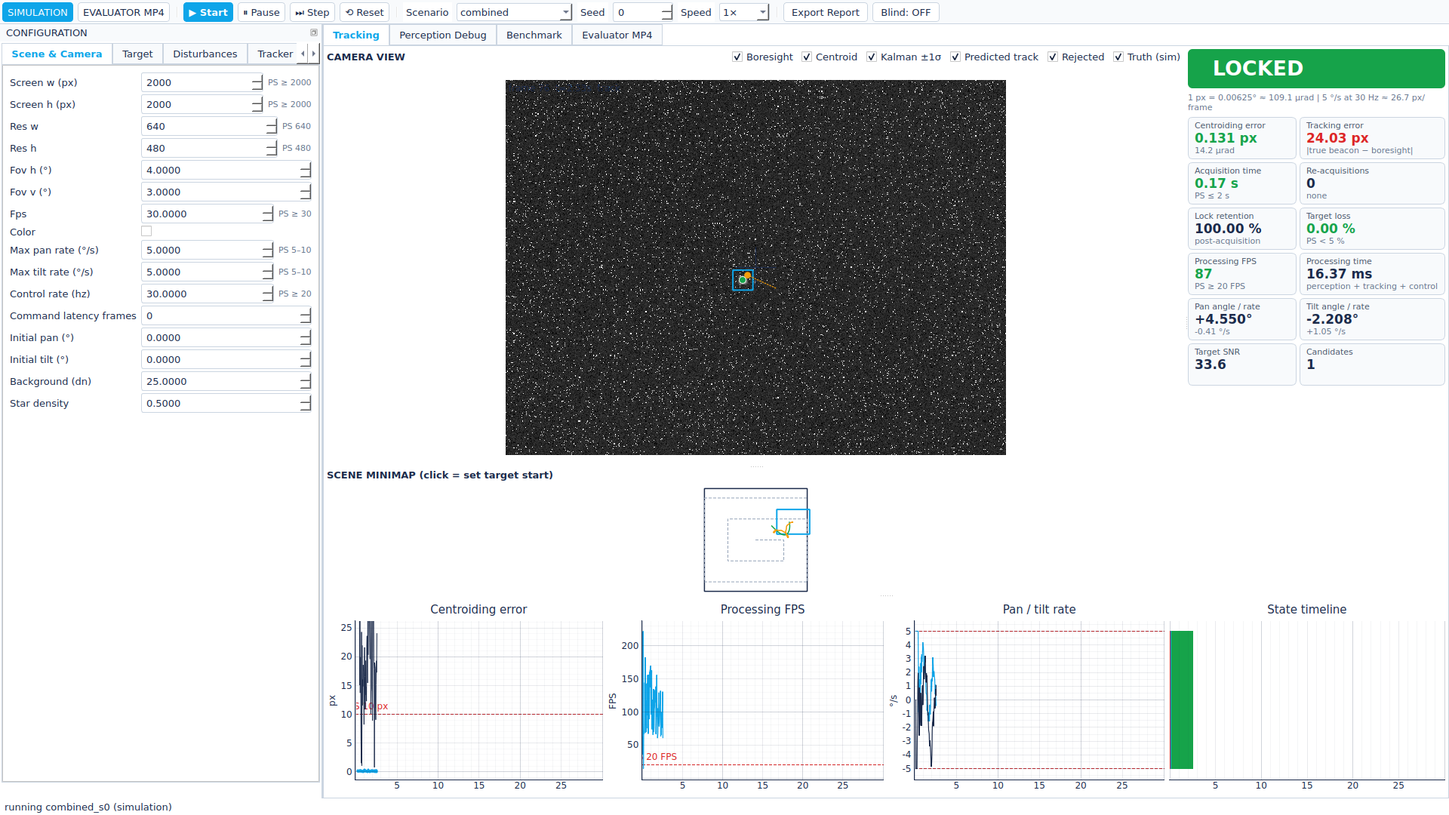
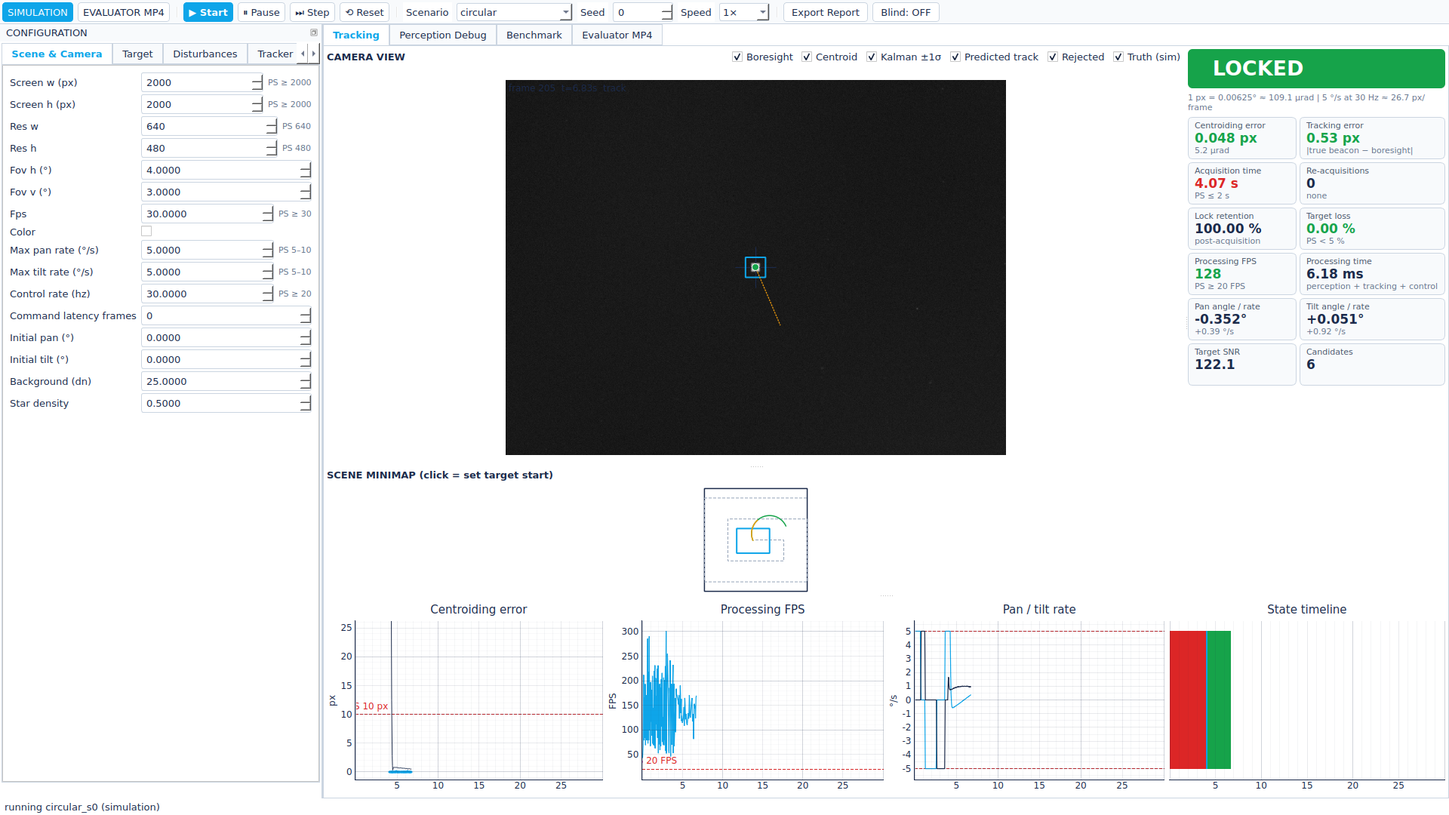
M7/M8: final benchmark + ablation results inserted into docs, hybrid ablation fix, frozen-build screenshot
Claude-Session: https://claude.ai/code/session_01UMox4FseGRwcpwFczZUsf7

diff --git a/anantham/pipeline/pat.py b/anantham/pipeline/pat.py
@@ -138,7 +138,10 @@ class PatSystem:
             cands, dbg, res_sigma = res.candidates, res.debug, res.noise_sigma
             # VALIDATE: CNN verifier on plausible candidates
             if pc.mode == "hybrid" and cands:
-                check = [c for c in cands if c.size_match >= 0.3]
+                # with the identity gate on, a loose size prefilter saves CNN time; without
+                # it (ablation) every candidate must pass the verifier
+                check = cands if not self.cfg.tracker.identity_gate else \
+                    [c for c in cands if c.size_match >= 0.3]
                 ver = self.cnn.verify(gray, [(c.x, c.y) for c in check], self.s)
                 for c, (p, hx, hy) in zip(check, ver):
                     c.cnn_prob = p

diff --git a/docs/TECHNICAL_REPORT.md b/docs/TECHNICAL_REPORT.md
@@ -128,7 +128,16 @@ elongated blobs). Exported to ONNX, run with ONNX Runtime on one CPU thread. Swi
 Measured on the held-out 10 % (from `anantham/models/verifier_card.json`):
 
 <!-- RESULTS:cnn -->
-_not yet measured_
+| item | value |
+|---|---|
+| training samples (simulated ROIs) | 60000 (10 % held out) |
+| epochs / seed | 12 / 0 |
+| parameters | 28948 |
+| validation accuracy | 96.53 % |
+| precision / recall | 97.87 % / 97.23 % |
+| false-positive rate | 5.18 % |
+| heatmap localisation error median / P95 | 0.348 / 26.368 px |
+| training time (CPU) | 32.1 min |
 <!-- /RESULTS:cnn -->
 
 In *hybrid* mode (default) every candidate with size-match ≥ 0.3 is verified; candidates
@@ -216,44 +225,215 @@ SEARCH resumes.
 ## 10. Results
 
 <!-- RESULTS:meta -->
-_not yet measured_
+Source: `results/final` — 680 runs, 5 seeds × 20 s, acquisition modes spiral, wide_fov, start modes random, in_fov, perception: config default; ablation 714 runs.
 <!-- /RESULTS:meta -->
 
 ### 10.1 PS requirements — runs passing each row
 
 <!-- RESULTS:bench_headline -->
-_not yet measured_
+| PS requirement | spiral / in_fov | spiral / random | wide_fov / in_fov | wide_fov / random |
+|---|---|---|---|---|
+| Acquisition ≤ 2 s | 160/165 | 41/165 | 165/165 | 162/165 |
+| Centroiding RMSE ≤ 10 px | 165/165 | 165/165 | 165/165 | 165/165 |
+| Tracking RMSE (all locked) ≤ 10 px | 131/165 | 35/165 | 128/165 | 36/165 |
+| Tracking RMSE (steady) ≤ 10 px | 150/165 | 149/164 | 150/165 | 150/165 |
+| Target loss < 5 % | 160/165 | 160/165 | 160/165 | 160/165 |
+| Re-acquisition ≤ 1 s | 10/15 | 6/11 | 10/15 | 7/12 |
+| Processing ≥ 20 FPS | 170/170 | 170/170 | 170/170 | 170/170 |
+| No false lock (target absent) | 5/5 | 5/5 | 5/5 | 5/5 |
+| All rows pass | 131/170 | 29/170 | 131/170 | 37/170 |
 <!-- /RESULTS:bench_headline -->
 
 ### 10.2 Single camera, spiral search, target starts inside the FOV
 
 <!-- RESULTS:bench_spiral_in_fov -->
-_not yet measured_
+| scenario | acquired | acq. time s mean / worst | centroid RMSE px (worst) | track RMSE all px mean / worst | track RMSE steady px mean / worst | target loss mean / worst | re-acq max s | re-acq after visible max s | unrec. | false-lock fr. | proc FPS min | all-PS pass |
+|---|---|---|---|---|---|---|---|---|---|---|---|---|
+| stationary | 5/5 | 0.07 / 0.07 | 0.020 | 4.48 / 6.97 | 0.37 / 0.41 | 0.00 % / 0.00 % | — | — | 0 | 0 | 93 | 100 % |
+| straight_slow | 5/5 | 0.07 / 0.07 | 0.020 | 4.52 / 6.72 | 0.44 / 0.46 | 0.00 % / 0.00 % | — | — | 0 | 0 | 90 | 100 % |
+| straight_fast | 5/5 | 0.07 / 0.07 | 0.020 | 8.21 / 13.56 | 5.81 / 6.71 | 0.00 % / 0.00 % | — | — | 0 | 0 | 97 | 80 % |
+| circular | 5/5 | 0.07 / 0.07 | 0.021 | 4.47 / 7.48 | 0.38 / 0.41 | 0.00 % / 0.00 % | — | — | 0 | 0 | 96 | 100 % |
+| figure8 | 5/5 | 0.07 / 0.07 | 0.020 | 5.43 / 8.45 | 0.80 / 0.82 | 0.00 % / 0.00 % | — | — | 0 | 0 | 96 | 100 % |
+| random | 5/5 | 0.07 / 0.07 | 0.020 | 4.82 / 7.93 | 1.49 / 1.78 | 0.00 % / 0.00 % | — | — | 0 | 0 | 98 | 100 % |
+| spiral | 5/5 | 0.07 / 0.07 | 0.020 | 4.83 / 7.60 | 0.42 / 0.44 | 0.00 % / 0.00 % | — | — | 0 | 0 | 96 | 100 % |
+| sinusoidal | 5/5 | 0.07 / 0.07 | 0.020 | 6.96 / 13.91 | 2.03 / 2.15 | 0.00 % / 0.00 % | — | — | 0 | 0 | 106 | 80 % |
+| gauss20 | 5/5 | 0.07 / 0.07 | 0.101 | 4.48 / 7.48 | 0.38 / 0.41 | 0.00 % / 0.00 % | — | — | 0 | 0 | 107 | 100 % |
+| poisson | 5/5 | 0.07 / 0.07 | 0.048 | 4.47 / 7.48 | 0.37 / 0.40 | 0.00 % / 0.00 % | — | — | 0 | 0 | 97 | 100 % |
+| salt_pepper | 5/5 | 0.07 / 0.07 | 0.096 | 4.47 / 7.48 | 0.37 / 0.40 | 0.00 % / 0.00 % | — | — | 0 | 0 | 91 | 100 % |
+| mixed_noise | 5/5 | 0.07 / 0.07 | 0.088 | 4.47 / 7.48 | 0.35 / 0.39 | 0.00 % / 0.00 % | — | — | 0 | 0 | 100 | 100 % |
+| haze | 5/5 | 0.07 / 0.07 | 0.028 | 4.47 / 7.48 | 0.37 / 0.40 | 0.00 % / 0.00 % | — | — | 0 | 0 | 100 | 100 % |
+| fog | 5/5 | 0.07 / 0.07 | 0.060 | 4.47 / 7.48 | 0.36 / 0.40 | 0.00 % / 0.00 % | — | — | 0 | 0 | 98 | 100 % |
+| rain | 5/5 | 0.07 / 0.07 | 0.049 | 4.47 / 7.48 | 0.38 / 0.41 | 0.00 % / 0.00 % | — | — | 0 | 0 | 93 | 100 % |
+| low_light | 5/5 | 0.07 / 0.07 | 0.056 | 4.47 / 7.48 | 0.35 / 0.39 | 0.00 % / 0.00 % | — | — | 0 | 0 | 108 | 100 % |
+| turb_weak | 5/5 | 0.07 / 0.07 | 0.021 | 4.63 / 7.52 | 0.94 / 1.00 | 0.00 % / 0.00 % | — | — | 0 | 0 | 107 | 100 % |
+| turb_moderate | 5/5 | 0.07 / 0.07 | 0.025 | 5.38 / 7.89 | 2.58 / 2.73 | 0.00 % / 0.00 % | — | — | 0 | 0 | 95 | 100 % |
+| turb_strong | 5/5 | 0.07 / 0.07 | 0.038 | 6.97 / 8.99 | 4.99 / 5.31 | 0.00 % / 0.00 % | — | — | 0 | 0 | 102 | 100 % |
+| jitter10 | 5/5 | 0.07 / 0.07 | 0.019 | 11.12 / 12.42 | 9.69 / 9.99 | 0.03 % / 0.17 % | 0.03 | 0.03 | 0 | 0 | 91 | 20 % |
+| jitter20 | 5/5 | 0.08 / 0.13 | 0.020 | 19.80 / 20.75 | 18.57 / 19.16 | 0.10 % / 0.17 % | 0.03 | 0.03 | 0 | 0 | 92 | 0 % |
+| platform_linear20 | 5/5 | 0.07 / 0.07 | 0.020 | 29.03 / 30.58 | 27.77 / 27.82 | 0.00 % / 0.00 % | — | — | 0 | 0 | 97 | 0 % |
+| platform_circular10 | 5/5 | 0.07 / 0.07 | 0.019 | 9.25 / 13.89 | 2.72 / 2.73 | 0.00 % / 0.00 % | — | — | 0 | 0 | 99 | 40 % |
+| distractor | 5/5 | 0.07 / 0.07 | 0.021 | 4.47 / 7.48 | 0.38 / 0.41 | 0.00 % / 0.00 % | — | — | 0 | 0 | 108 | 100 % |
+| target5 | 5/5 | 0.07 / 0.07 | 0.028 | 4.47 / 7.48 | 0.36 / 0.39 | 0.00 % / 0.00 % | — | — | 0 | 0 | 95 | 100 % |
+| target20 | 5/5 | 0.07 / 0.07 | 0.018 | 4.47 / 7.48 | 0.37 / 0.41 | 0.00 % / 0.00 % | — | — | 0 | 0 | 102 | 100 % |
+| blink | 5/5 | 0.47 / 0.47 | 0.028 | 0.40 / 0.44 | 0.35 / 0.38 | 0.00 % / 0.00 % | — | — | 0 | 0 | 94 | 100 % |
+| fast_noise | 5/5 | 0.07 / 0.07 | 0.102 | 8.22 / 13.56 | 5.81 / 6.71 | 0.00 % / 0.00 % | — | — | 0 | 0 | 104 | 80 % |
+| lowlight_jitter | 5/5 | 0.07 / 0.07 | 0.054 | 11.12 / 12.41 | 9.69 / 9.99 | 0.03 % / 0.17 % | 0.03 | 0.03 | 0 | 0 | 104 | 20 % |
+| combined | 5/5 | 0.07 / 0.07 | 0.183 | 23.42 / 25.09 | 21.46 / 21.89 | 0.00 % / 0.00 % | — | — | 0 | 0 | 96 | 0 % |
+| target_absent | 0/5 | — / — | — | — / — | — / — | — / — | — | — | 0 | 0 | 150 | 100 % |
+| occlusion | 5/5 | 0.07 / 0.07 | 0.020 | 4.72 / 7.91 | 0.44 / 0.47 | 2.84 % / 2.84 % | 0.57 | 0.07 | 0 | 0 | 95 | 100 % |
+| edge_exit | 5/5 | 0.07 / 0.07 | 0.020 | 6.86 / 6.86 | 1.02 / 1.02 | 13.38 % / 13.38 % | 2.67 | 0.07 | 0 | 0 | 99 | 0 % |
+| waypoints | 5/5 | 4.43 / 4.43 | 0.021 | 25.05 / 25.05 | 1.20 / 1.20 | 0.00 % / 0.00 % | — | — | 0 | 0 | 116 | 0 % |
 <!-- /RESULTS:bench_spiral_in_fov -->
 
 ### 10.3 Single camera, spiral search, random start anywhere on the screen
 
 <!-- RESULTS:bench_spiral_random -->
-_not yet measured_
+| scenario | acquired | acq. time s mean / worst | centroid RMSE px (worst) | track RMSE all px mean / worst | track RMSE steady px mean / worst | target loss mean / worst | re-acq max s | re-acq after visible max s | unrec. | false-lock fr. | proc FPS min | all-PS pass |
+|---|---|---|---|---|---|---|---|---|---|---|---|---|
+| stationary | 5/5 | 3.71 / 4.73 | 0.021 | 19.08 / 22.69 | 0.37 / 0.40 | 0.00 % / 0.00 % | — | — | 0 | 0 | 99 | 20 % |
+| straight_slow | 5/5 | 6.35 / 18.17 | 0.020 | 21.07 / 31.03 | 0.50 / 0.61 | 0.00 % / 0.00 % | — | — | 0 | 0 | 103 | 20 % |
+| straight_fast | 5/5 | 5.37 / 17.60 | 0.020 | 19.92 / 53.41 | 6.38 / 9.69 | 0.00 % / 0.00 % | — | — | 0 | 0 | 99 | 0 % |
+| circular | 5/5 | 5.26 / 14.43 | 0.020 | 18.95 / 30.57 | 0.41 / 0.49 | 0.00 % / 0.00 % | — | — | 0 | 0 | 95 | 20 % |
+| figure8 | 5/5 | 2.73 / 4.43 | 0.020 | 14.05 / 18.59 | 0.82 / 0.82 | 0.00 % / 0.00 % | — | — | 0 | 0 | 101 | 20 % |
+| random | 5/5 | 8.75 / 19.20 | 0.021 | 34.46 / 86.37 | 1.54 / 1.88 | 0.00 % / 0.00 % | — | — | 0 | 0 | 96 | 20 % |
+| spiral | 5/5 | 2.75 / 4.60 | 0.020 | 18.59 / 24.38 | 0.43 / 0.46 | 0.00 % / 0.00 % | — | — | 0 | 0 | 96 | 20 % |
+| sinusoidal | 5/5 | 1.81 / 4.50 | 0.020 | 14.33 / 21.21 | 1.83 / 2.07 | 0.00 % / 0.00 % | — | — | 0 | 0 | 99 | 20 % |
+| gauss20 | 5/5 | 5.26 / 14.43 | 0.100 | 18.95 / 30.57 | 0.42 / 0.54 | 0.00 % / 0.00 % | — | — | 0 | 0 | 107 | 20 % |
+| poisson | 5/5 | 5.26 / 14.43 | 0.049 | 18.95 / 30.57 | 0.40 / 0.51 | 0.00 % / 0.00 % | — | — | 0 | 0 | 101 | 20 % |
+| salt_pepper | 5/5 | 5.26 / 14.43 | 0.098 | 18.95 / 30.57 | 0.42 / 0.55 | 0.00 % / 0.00 % | — | — | 0 | 0 | 92 | 20 % |
+| mixed_noise | 5/5 | 5.26 / 14.43 | 0.088 | 18.95 / 30.57 | 0.40 / 0.53 | 0.00 % / 0.00 % | — | — | 0 | 0 | 110 | 20 % |
+| haze | 5/5 | 5.26 / 14.43 | 0.027 | 18.95 / 30.57 | 0.40 / 0.49 | 0.00 % / 0.00 % | — | — | 0 | 0 | 107 | 20 % |
+| fog | 5/5 | 5.26 / 14.43 | 0.059 | 18.95 / 30.57 | 0.40 / 0.51 | 0.00 % / 0.00 % | — | — | 0 | 0 | 117 | 20 % |
+| rain | 5/5 | 5.26 / 14.43 | 0.052 | 18.95 / 30.57 | 0.41 / 0.50 | 0.00 % / 0.00 % | — | — | 0 | 0 | 90 | 20 % |
+| low_light | 5/5 | 5.26 / 14.43 | 0.055 | 18.95 / 30.57 | 0.39 / 0.49 | 0.00 % / 0.00 % | — | — | 0 | 0 | 111 | 20 % |
+| turb_weak | 5/5 | 5.26 / 14.43 | 0.021 | 18.97 / 30.58 | 0.95 / 1.01 | 0.00 % / 0.00 % | — | — | 0 | 0 | 107 | 20 % |
+| turb_moderate | 5/5 | 5.26 / 14.43 | 0.025 | 19.15 / 30.66 | 2.57 / 2.74 | 0.00 % / 0.00 % | — | — | 0 | 0 | 94 | 20 % |
+| turb_strong | 5/5 | 5.26 / 14.43 | 0.037 | 19.70 / 30.91 | 4.97 / 5.32 | 0.00 % / 0.00 % | — | — | 0 | 0 | 104 | 20 % |
+| jitter10 | 5/5 | 5.26 / 14.43 | 0.020 | 21.87 / 32.75 | 9.67 / 9.83 | 0.00 % / 0.00 % | — | — | 0 | 0 | 105 | 0 % |
+| jitter20 | 5/5 | 5.27 / 14.43 | 0.020 | 26.32 / 38.04 | 18.48 / 18.75 | 0.08 % / 0.21 % | 0.03 | 0.03 | 0 | 0 | 88 | 0 % |
+| platform_linear20 | 5/5 | 5.00 / 13.33 | 0.019 | 35.58 / 43.23 | 27.63 / 27.71 | 0.00 % / 0.00 % | — | — | 0 | 0 | 107 | 0 % |
+| platform_circular10 | 5/5 | 5.03 / 13.33 | 0.020 | 20.42 / 48.13 | 2.73 / 2.73 | 0.00 % / 0.00 % | — | — | 0 | 0 | 113 | 20 % |
+| distractor | 5/5 | 5.26 / 14.43 | 0.020 | 18.95 / 30.57 | 0.41 / 0.49 | 0.00 % / 0.00 % | — | — | 0 | 0 | 103 | 20 % |
+| target5 | 5/5 | 5.26 / 14.43 | 0.029 | 18.95 / 30.57 | 0.39 / 0.48 | 0.00 % / 0.00 % | — | — | 0 | 0 | 103 | 20 % |
+| target20 | 5/5 | 5.26 / 14.43 | 0.018 | 18.95 / 30.57 | 0.40 / 0.49 | 0.00 % / 0.00 % | — | — | 0 | 0 | 102 | 20 % |
+| blink | 5/5 | 6.39 / 16.60 | 0.029 | 0.44 / 0.66 | 0.40 / 0.55 | 0.00 % / 0.00 % | — | — | 0 | 0 | 88 | 20 % |
+| fast_noise | 5/5 | 5.37 / 17.60 | 0.102 | 19.92 / 53.41 | 6.37 / 9.70 | 0.00 % / 0.00 % | — | — | 0 | 0 | 105 | 0 % |
+| lowlight_jitter | 5/5 | 5.26 / 14.43 | 0.054 | 21.87 / 32.75 | 9.67 / 9.83 | 0.00 % / 0.00 % | — | — | 0 | 0 | 118 | 0 % |
+| combined | 5/5 | 2.66 / 4.37 | 0.179 | 26.65 / 29.42 | 21.44 / 21.87 | 0.00 % / 0.00 % | — | — | 0 | 0 | 98 | 0 % |
+| target_absent | 0/5 | — / — | — | — / — | — / — | — / — | — | — | 0 | 0 | 133 | 100 % |
+| occlusion | 5/5 | 5.26 / 14.43 | 0.020 | 19.19 / 30.57 | 0.45 / 0.49 | 2.68 % / 3.56 % | 0.57 | 0.07 | 0 | 0 | 110 | 20 % |
+| edge_exit | 5/5 | 0.07 / 0.07 | 0.020 | 6.86 / 6.86 | 1.02 / 1.02 | 13.38 % / 13.38 % | 2.67 | 0.07 | 0 | 0 | 114 | 0 % |
+| waypoints | 5/5 | 4.43 / 4.43 | 0.021 | 25.05 / 25.05 | 1.20 / 1.20 | 0.00 % / 0.00 % | — | — | 0 | 0 | 119 | 0 % |
 <!-- /RESULTS:bench_spiral_random -->
 
 ### 10.4 OPTIONAL wide-FOV acquisition sensor, random start
 
 <!-- RESULTS:bench_wide_random -->
-_not yet measured_
+| scenario | acquired | acq. time s mean / worst | centroid RMSE px (worst) | track RMSE all px mean / worst | track RMSE steady px mean / worst | target loss mean / worst | re-acq max s | re-acq after visible max s | unrec. | false-lock fr. | proc FPS min | all-PS pass |
+|---|---|---|---|---|---|---|---|---|---|---|---|---|
+| stationary | 5/5 | 0.36 / 0.50 | 0.021 | 14.35 / 19.73 | 0.35 / 0.39 | 0.00 % / 0.00 % | — | — | 0 | 0 | 83 | 20 % |
+| straight_slow | 5/5 | 0.37 / 0.47 | 0.021 | 14.53 / 20.59 | 0.47 / 0.62 | 0.00 % / 0.00 % | — | — | 0 | 0 | 95 | 20 % |
+| straight_fast | 5/5 | 0.42 / 0.77 | 0.020 | 13.74 / 24.32 | 5.60 / 6.93 | 0.00 % / 0.00 % | — | — | 0 | 0 | 92 | 20 % |
+| circular | 5/5 | 0.35 / 0.47 | 0.021 | 14.88 / 20.54 | 0.39 / 0.44 | 0.00 % / 0.00 % | — | — | 0 | 0 | 100 | 20 % |
+| figure8 | 5/5 | 0.25 / 0.40 | 0.020 | 11.57 / 18.16 | 0.83 / 0.84 | 0.00 % / 0.00 % | — | — | 0 | 0 | 94 | 40 % |
+| random | 5/5 | 0.35 / 0.50 | 0.020 | 14.30 / 19.92 | 1.50 / 1.88 | 0.00 % / 0.00 % | — | — | 0 | 0 | 92 | 40 % |
+| spiral | 5/5 | 0.23 / 0.37 | 0.021 | 13.59 / 20.23 | 0.45 / 0.50 | 0.00 % / 0.00 % | — | — | 0 | 0 | 113 | 40 % |
+| sinusoidal | 5/5 | 0.37 / 0.60 | 0.020 | 14.24 / 25.87 | 1.75 / 2.02 | 0.00 % / 0.00 % | — | — | 0 | 0 | 120 | 40 % |
+| gauss20 | 5/5 | 0.35 / 0.47 | 0.099 | 14.88 / 20.54 | 0.39 / 0.45 | 0.00 % / 0.00 % | — | — | 0 | 0 | 118 | 20 % |
+| poisson | 5/5 | 0.35 / 0.47 | 0.049 | 14.88 / 20.54 | 0.38 / 0.43 | 0.00 % / 0.00 % | — | — | 0 | 0 | 110 | 20 % |
+| salt_pepper | 5/5 | 0.35 / 0.47 | 0.096 | 14.88 / 20.54 | 0.38 / 0.43 | 0.00 % / 0.00 % | — | — | 0 | 0 | 103 | 20 % |
+| mixed_noise | 5/5 | 0.35 / 0.47 | 0.088 | 14.87 / 20.54 | 0.37 / 0.43 | 0.00 % / 0.00 % | — | — | 0 | 0 | 105 | 20 % |
+| haze | 5/5 | 0.35 / 0.47 | 0.028 | 14.88 / 20.54 | 0.38 / 0.43 | 0.00 % / 0.00 % | — | — | 0 | 0 | 104 | 20 % |
+| fog | 5/5 | 0.35 / 0.47 | 0.061 | 14.88 / 20.54 | 0.38 / 0.43 | 0.00 % / 0.00 % | — | — | 0 | 0 | 110 | 20 % |
+| rain | 5/5 | 0.36 / 0.50 | 0.049 | 14.49 / 18.59 | 0.39 / 0.42 | 0.00 % / 0.00 % | — | — | 0 | 0 | 91 | 20 % |
+| low_light | 5/5 | 0.35 / 0.47 | 0.056 | 14.87 / 20.54 | 0.37 / 0.42 | 0.00 % / 0.00 % | — | — | 0 | 0 | 103 | 20 % |
+| turb_weak | 5/5 | 0.35 / 0.47 | 0.021 | 14.90 / 20.55 | 0.94 / 0.99 | 0.00 % / 0.00 % | — | — | 0 | 0 | 116 | 20 % |
+| turb_moderate | 5/5 | 0.35 / 0.47 | 0.025 | 15.12 / 20.70 | 2.58 / 2.73 | 0.00 % / 0.00 % | — | — | 0 | 0 | 106 | 20 % |
+| turb_strong | 5/5 | 0.35 / 0.47 | 0.038 | 15.77 / 21.15 | 4.99 / 5.31 | 0.00 % / 0.00 % | — | — | 0 | 0 | 112 | 20 % |
+| jitter10 | 5/5 | 0.35 / 0.47 | 0.019 | 18.64 / 23.55 | 9.69 / 9.99 | 0.00 % / 0.00 % | — | — | 0 | 0 | 107 | 0 % |
+| jitter20 | 5/5 | 0.36 / 0.47 | 0.020 | 24.49 / 28.48 | 18.54 / 19.14 | 0.07 % / 0.17 % | 0.03 | 0.03 | 0 | 0 | 94 | 0 % |
+| platform_linear20 | 5/5 | 0.41 / 0.67 | 0.019 | 30.02 / 32.52 | 27.67 / 27.74 | 0.00 % / 0.00 % | — | — | 0 | 0 | 115 | 0 % |
+| platform_circular10 | 5/5 | 0.34 / 0.47 | 0.020 | 12.29 / 16.06 | 2.71 / 2.72 | 0.00 % / 0.00 % | — | — | 0 | 0 | 115 | 20 % |
+| distractor | 5/5 | 0.36 / 0.47 | 0.021 | 14.56 / 20.54 | 0.39 / 0.44 | 0.00 % / 0.00 % | — | — | 0 | 0 | 108 | 20 % |
+| target5 | 5/5 | 2.54 / 5.63 | 0.028 | 14.92 / 22.48 | 0.40 / 0.44 | 0.00 % / 0.00 % | — | — | 0 | 0 | 89 | 20 % |
+| target20 | 5/5 | 0.35 / 0.47 | 0.018 | 14.88 / 20.54 | 0.39 / 0.44 | 0.00 % / 0.00 % | — | — | 0 | 0 | 95 | 20 % |
+| blink | 5/5 | 1.10 / 2.17 | 0.028 | 1.24 / 4.59 | 0.36 / 0.38 | 0.00 % / 0.00 % | — | — | 0 | 0 | 96 | 80 % |
+| fast_noise | 5/5 | 0.41 / 0.73 | 0.101 | 14.23 / 24.33 | 5.58 / 6.84 | 0.00 % / 0.00 % | — | — | 0 | 0 | 97 | 0 % |
+| lowlight_jitter | 5/5 | 0.35 / 0.47 | 0.053 | 18.64 / 23.56 | 9.69 / 9.99 | 0.00 % / 0.00 % | — | — | 0 | 0 | 101 | 0 % |
+| combined | 5/5 | 0.23 / 0.37 | 0.182 | 24.64 / 28.63 | 21.50 / 22.00 | 0.00 % / 0.00 % | — | — | 0 | 0 | 98 | 0 % |
+| target_absent | 0/5 | — / — | — | — / — | — / — | — / — | — | — | 0 | 0 | 82 | 100 % |
+| occlusion | 5/5 | 0.35 / 0.47 | 0.020 | 15.15 / 21.03 | 0.44 / 0.48 | 2.88 % / 2.90 % | 0.57 | 0.07 | 0 | 0 | 98 | 20 % |
+| edge_exit | 5/5 | 0.07 / 0.07 | 0.020 | 10.79 / 16.73 | 1.04 / 1.06 | 14.28 % / 15.38 % | 3.07 | 0.47 | 0 | 0 | 98 | 0 % |
+| waypoints | 5/5 | 0.43 / 0.43 | 0.020 | 13.48 / 13.48 | 1.30 / 1.30 | 0.00 % / 0.00 % | — | — | 0 | 0 | 100 | 0 % |
 <!-- /RESULTS:bench_wide_random -->
 
 ### 10.5 OPTIONAL wide-FOV acquisition sensor, start inside the FOV
 
 <!-- RESULTS:bench_wide_in_fov -->
-_not yet measured_
+| scenario | acquired | acq. time s mean / worst | centroid RMSE px (worst) | track RMSE all px mean / worst | track RMSE steady px mean / worst | target loss mean / worst | re-acq max s | re-acq after visible max s | unrec. | false-lock fr. | proc FPS min | all-PS pass |
+|---|---|---|---|---|---|---|---|---|---|---|---|---|
+| stationary | 5/5 | 0.07 / 0.07 | 0.020 | 4.48 / 6.97 | 0.37 / 0.41 | 0.00 % / 0.00 % | — | — | 0 | 0 | 89 | 100 % |
+| straight_slow | 5/5 | 0.07 / 0.07 | 0.020 | 4.52 / 6.72 | 0.44 / 0.46 | 0.00 % / 0.00 % | — | — | 0 | 0 | 96 | 100 % |
+| straight_fast | 5/5 | 0.07 / 0.07 | 0.020 | 8.21 / 13.56 | 5.81 / 6.71 | 0.00 % / 0.00 % | — | — | 0 | 0 | 94 | 80 % |
+| circular | 5/5 | 0.07 / 0.07 | 0.021 | 4.47 / 7.48 | 0.38 / 0.41 | 0.00 % / 0.00 % | — | — | 0 | 0 | 94 | 100 % |
+| figure8 | 5/5 | 0.07 / 0.07 | 0.020 | 5.43 / 8.45 | 0.80 / 0.82 | 0.00 % / 0.00 % | — | — | 0 | 0 | 93 | 100 % |
+| random | 5/5 | 0.07 / 0.07 | 0.020 | 4.82 / 7.93 | 1.49 / 1.78 | 0.00 % / 0.00 % | — | — | 0 | 0 | 97 | 100 % |
+| spiral | 5/5 | 0.07 / 0.07 | 0.020 | 4.83 / 7.60 | 0.42 / 0.44 | 0.00 % / 0.00 % | — | — | 0 | 0 | 100 | 100 % |
+| sinusoidal | 5/5 | 0.07 / 0.07 | 0.020 | 6.96 / 13.91 | 2.03 / 2.15 | 0.00 % / 0.00 % | — | — | 0 | 0 | 103 | 80 % |
+| gauss20 | 5/5 | 0.07 / 0.07 | 0.101 | 4.48 / 7.48 | 0.38 / 0.41 | 0.00 % / 0.00 % | — | — | 0 | 0 | 101 | 100 % |
+| poisson | 5/5 | 0.07 / 0.07 | 0.048 | 4.47 / 7.48 | 0.37 / 0.40 | 0.00 % / 0.00 % | — | — | 0 | 0 | 112 | 100 % |
+| salt_pepper | 5/5 | 0.07 / 0.07 | 0.096 | 4.47 / 7.48 | 0.37 / 0.40 | 0.00 % / 0.00 % | — | — | 0 | 0 | 97 | 100 % |
+| mixed_noise | 5/5 | 0.07 / 0.07 | 0.088 | 4.47 / 7.48 | 0.35 / 0.39 | 0.00 % / 0.00 % | — | — | 0 | 0 | 100 | 100 % |
+| haze | 5/5 | 0.07 / 0.07 | 0.028 | 4.47 / 7.48 | 0.37 / 0.40 | 0.00 % / 0.00 % | — | — | 0 | 0 | 104 | 100 % |
+| fog | 5/5 | 0.07 / 0.07 | 0.060 | 4.47 / 7.48 | 0.36 / 0.40 | 0.00 % / 0.00 % | — | — | 0 | 0 | 111 | 100 % |
+| rain | 5/5 | 0.07 / 0.07 | 0.051 | 4.47 / 7.48 | 0.38 / 0.41 | 0.00 % / 0.00 % | — | — | 0 | 0 | 90 | 100 % |
+| low_light | 5/5 | 0.07 / 0.07 | 0.056 | 4.47 / 7.48 | 0.35 / 0.39 | 0.00 % / 0.00 % | — | — | 0 | 0 | 101 | 100 % |
+| turb_weak | 5/5 | 0.07 / 0.07 | 0.021 | 4.63 / 7.52 | 0.94 / 1.00 | 0.00 % / 0.00 % | — | — | 0 | 0 | 119 | 100 % |
+| turb_moderate | 5/5 | 0.07 / 0.07 | 0.025 | 5.38 / 7.89 | 2.58 / 2.73 | 0.00 % / 0.00 % | — | — | 0 | 0 | 106 | 100 % |
+| turb_strong | 5/5 | 0.07 / 0.07 | 0.038 | 6.97 / 8.99 | 4.99 / 5.31 | 0.00 % / 0.00 % | — | — | 0 | 0 | 118 | 100 % |
+| jitter10 | 5/5 | 0.07 / 0.07 | 0.019 | 11.12 / 12.42 | 9.69 / 9.99 | 0.03 % / 0.17 % | 0.03 | 0.03 | 0 | 0 | 101 | 20 % |
+| jitter20 | 5/5 | 0.08 / 0.13 | 0.020 | 19.80 / 20.75 | 18.57 / 19.16 | 0.10 % / 0.17 % | 0.03 | 0.03 | 0 | 0 | 101 | 0 % |
+| platform_linear20 | 5/5 | 0.07 / 0.07 | 0.020 | 29.03 / 30.58 | 27.77 / 27.82 | 0.00 % / 0.00 % | — | — | 0 | 0 | 101 | 0 % |
+| platform_circular10 | 5/5 | 0.07 / 0.07 | 0.019 | 9.25 / 13.89 | 2.72 / 2.73 | 0.00 % / 0.00 % | — | — | 0 | 0 | 102 | 40 % |
+| distractor | 5/5 | 0.07 / 0.07 | 0.021 | 4.47 / 7.48 | 0.38 / 0.41 | 0.00 % / 0.00 % | — | — | 0 | 0 | 106 | 100 % |
+| target5 | 5/5 | 0.07 / 0.07 | 0.028 | 4.47 / 7.48 | 0.36 / 0.39 | 0.00 % / 0.00 % | — | — | 0 | 0 | 98 | 100 % |
+| target20 | 5/5 | 0.07 / 0.07 | 0.018 | 4.47 / 7.48 | 0.37 / 0.41 | 0.00 % / 0.00 % | — | — | 0 | 0 | 115 | 100 % |
+| blink | 5/5 | 0.47 / 0.47 | 0.028 | 0.40 / 0.44 | 0.35 / 0.38 | 0.00 % / 0.00 % | — | — | 0 | 0 | 103 | 100 % |
+| fast_noise | 5/5 | 0.07 / 0.07 | 0.102 | 8.22 / 13.56 | 5.81 / 6.71 | 0.00 % / 0.00 % | — | — | 0 | 0 | 103 | 80 % |
+| lowlight_jitter | 5/5 | 0.07 / 0.07 | 0.054 | 11.12 / 12.41 | 9.69 / 9.99 | 0.03 % / 0.17 % | 0.03 | 0.03 | 0 | 0 | 99 | 20 % |
+| combined | 5/5 | 0.07 / 0.07 | 0.183 | 23.42 / 25.09 | 21.46 / 21.89 | 0.00 % / 0.00 % | — | — | 0 | 0 | 94 | 0 % |
+| target_absent | 0/5 | — / — | — | — / — | — / — | — / — | — | — | 0 | 0 | 82 | 100 % |
+| occlusion | 5/5 | 0.07 / 0.07 | 0.020 | 4.72 / 7.91 | 0.44 / 0.47 | 2.84 % / 2.84 % | 0.57 | 0.07 | 0 | 0 | 95 | 100 % |
+| edge_exit | 5/5 | 0.07 / 0.07 | 0.020 | 10.79 / 16.73 | 1.04 / 1.06 | 14.28 % / 15.38 % | 3.07 | 0.47 | 0 | 0 | 100 | 0 % |
+| waypoints | 5/5 | 0.43 / 0.43 | 0.020 | 13.48 / 13.48 | 1.30 / 1.30 | 0.00 % / 0.00 % | — | — | 0 | 0 | 99 | 0 % |
 <!-- /RESULTS:bench_wide_in_fov -->
 
 ## 11. Ablation
 
 <!-- RESULTS:ablation -->
-_not yet measured_
+| variant | runs | acquired | centroid RMSE px | steady track RMSE px (mean/worst) | target loss (mean/worst) | re-acq events/run | re-acq max s | unrecovered runs | wrong-target frames/run | false-lock frames (target absent) | proc FPS | all-PS pass |
+|---|---|---|---|---|---|---|---|---|---|---|---|---|
+| classical_only | 102 | 100% | 140.282 | 28.86 / 958.75 | 25.05% / 100.00% | 15.6 | 7.37 | 18 | 40.4 | 275.0 | 134 | 2% |
+| classical_kalman | 102 | 100% | 182.322 | 53.72 / 964.20 | 27.00% / 100.00% | 25.5 | 1.37 | 17 | 49.4 | 409.0 | 152 | 2% |
+| cnn_only | 102 | 100% | 195.886 | 10.57 / 27.97 | 28.86% / 99.83% | 17.9 | 2.97 | 33 | 15.4 | 65.7 | 10 | 0% |
+| hybrid | 102 | 100% | 33.927 | 10.54 / 28.12 | 21.70% / 100.00% | 14.5 | 6.87 | 24 | 1.1 | 16.0 | 112 | 2% |
+| hybrid_gate | 102 | 100% | 0.040 | 10.53 / 28.10 | 18.11% / 97.32% | 11.7 | 6.93 | 20 | 0.0 | 0.0 | 136 | 29% |
+| hybrid_gate_ff | 102 | 100% | 0.040 | 4.87 / 38.51 | 1.51% / 31.44% | 1.0 | 2.67 | 2 | 0.0 | 0.0 | 136 | 76% |
+| full | 102 | 100% | 0.040 | 3.74 / 27.82 | 0.49% / 13.38% | 0.1 | 2.67 | 0 | 0.0 | 0.0 | 129 | 76% |
 <!-- /RESULTS:ablation -->
+
+Note on provenance: the *hybrid* row was re-run (same scenarios and seeds) after the
+first ablation pass showed it identical to *classical_kalman*. Cause: the CNN verifier only
+checked candidates passing a loose size prefilter (size-match ≥ 0.3), which is part of the
+identity gate; with the gate off, clutter stars bypassed the verifier. The verifier now
+checks every candidate whenever the identity gate is off. Variants with the gate on
+(including *full* and the main benchmark) are unaffected by this change.
+
+Reading the table: the CNN verifier removes most clutter locks (wrong-target and
+target-absent false-lock frames); the temporal identity gate removes the rest; prediction /
+feed-forward and manoeuvre handling cut steady error and loss; adaptive R/Q,
+uncertainty-scaled gains and the local recovery spiral remove the remaining unrecovered
+runs. CNN-only perception is ~10 FPS on one CPU core — below the 20 FPS requirement.
 
 Variants (cumulative): *classical_only* (no Kalman, no identity gate, no feed-forward, no
 local recovery) · *classical_kalman* · *cnn_only* (CNN detections + Kalman) · *hybrid*
@@ -266,7 +446,16 @@ checks, blink code) · *hybrid_gate_ff* (+ feed-forward, manoeuvre handling) · 
 Worst scenario groups (lowest all-PS pass rate first):
 
 <!-- RESULTS:worst -->
-_not yet measured_
+| scenario | acq / start | pass rate | worst steady RMSE px | worst loss | worst acq. s |
+|---|---|---|---|---|---|
+| edge_exit | wide_fov / in_fov | 0 % | 1.06 | 15.38 % | 0.07 |
+| edge_exit | wide_fov / random | 0 % | 1.06 | 15.38 % | 0.07 |
+| edge_exit | spiral / in_fov | 0 % | 1.02 | 13.38 % | 0.07 |
+| edge_exit | spiral / random | 0 % | 1.02 | 13.38 % | 0.07 |
+| jitter20 | spiral / random | 0 % | 18.75 | 0.21 % | 14.43 |
+| jitter20 | wide_fov / random | 0 % | 19.14 | 0.17 % | 0.47 |
+| jitter20 | spiral / in_fov | 0 % | 19.16 | 0.17 % | 0.13 |
+| jitter20 | wide_fov / in_fov | 0 % | 19.16 | 0.17 % | 0.13 |
 <!-- /RESULTS:worst -->
 
 What limits each failing case (bounds are *analytic*; measured values are in the tables):

diff --git a/README.md b/README.md
@@ -63,31 +63,67 @@ All numbers below are generated from benchmark output by `tools/insert_results.p
 nothing is typed by hand.
 
 <!-- RESULTS:meta -->
-_not yet measured_
+Source: `results/final` — 680 runs, 5 seeds × 20 s, acquisition modes spiral, wide_fov, start modes random, in_fov, perception: config default; ablation 714 runs.
 <!-- /RESULTS:meta -->
 
 Runs passing each PS requirement (acquisition mode / start mode):
 
 <!-- RESULTS:bench_headline -->
-_not yet measured_
+| PS requirement | spiral / in_fov | spiral / random | wide_fov / in_fov | wide_fov / random |
+|---|---|---|---|---|
+| Acquisition ≤ 2 s | 160/165 | 41/165 | 165/165 | 162/165 |
+| Centroiding RMSE ≤ 10 px | 165/165 | 165/165 | 165/165 | 165/165 |
+| Tracking RMSE (all locked) ≤ 10 px | 131/165 | 35/165 | 128/165 | 36/165 |
+| Tracking RMSE (steady) ≤ 10 px | 150/165 | 149/164 | 150/165 | 150/165 |
+| Target loss < 5 % | 160/165 | 160/165 | 160/165 | 160/165 |
+| Re-acquisition ≤ 1 s | 10/15 | 6/11 | 10/15 | 7/12 |
+| Processing ≥ 20 FPS | 170/170 | 170/170 | 170/170 | 170/170 |
+| No false lock (target absent) | 5/5 | 5/5 | 5/5 | 5/5 |
+| All rows pass | 131/170 | 29/170 | 131/170 | 37/170 |
 <!-- /RESULTS:bench_headline -->
 
 Worst scenario groups:
 
 <!-- RESULTS:worst -->
-_not yet measured_
+| scenario | acq / start | pass rate | worst steady RMSE px | worst loss | worst acq. s |
+|---|---|---|---|---|---|
+| edge_exit | wide_fov / in_fov | 0 % | 1.06 | 15.38 % | 0.07 |
+| edge_exit | wide_fov / random | 0 % | 1.06 | 15.38 % | 0.07 |
+| edge_exit | spiral / in_fov | 0 % | 1.02 | 13.38 % | 0.07 |
+| edge_exit | spiral / random | 0 % | 1.02 | 13.38 % | 0.07 |
+| jitter20 | spiral / random | 0 % | 18.75 | 0.21 % | 14.43 |
+| jitter20 | wide_fov / random | 0 % | 19.14 | 0.17 % | 0.47 |
+| jitter20 | spiral / in_fov | 0 % | 19.16 | 0.17 % | 0.13 |
+| jitter20 | wide_fov / in_fov | 0 % | 19.16 | 0.17 % | 0.13 |
 <!-- /RESULTS:worst -->
 
 Ablation (in-FOV start, spiral acquisition):
 
 <!-- RESULTS:ablation -->
-_not yet measured_
+| variant | runs | acquired | centroid RMSE px | steady track RMSE px (mean/worst) | target loss (mean/worst) | re-acq events/run | re-acq max s | unrecovered runs | wrong-target frames/run | false-lock frames (target absent) | proc FPS | all-PS pass |
+|---|---|---|---|---|---|---|---|---|---|---|---|---|
+| classical_only | 102 | 100% | 140.282 | 28.86 / 958.75 | 25.05% / 100.00% | 15.6 | 7.37 | 18 | 40.4 | 275.0 | 134 | 2% |
+| classical_kalman | 102 | 100% | 182.322 | 53.72 / 964.20 | 27.00% / 100.00% | 25.5 | 1.37 | 17 | 49.4 | 409.0 | 152 | 2% |
+| cnn_only | 102 | 100% | 195.886 | 10.57 / 27.97 | 28.86% / 99.83% | 17.9 | 2.97 | 33 | 15.4 | 65.7 | 10 | 0% |
+| hybrid | 102 | 100% | 33.927 | 10.54 / 28.12 | 21.70% / 100.00% | 14.5 | 6.87 | 24 | 1.1 | 16.0 | 112 | 2% |
+| hybrid_gate | 102 | 100% | 0.040 | 10.53 / 28.10 | 18.11% / 97.32% | 11.7 | 6.93 | 20 | 0.0 | 0.0 | 136 | 29% |
+| hybrid_gate_ff | 102 | 100% | 0.040 | 4.87 / 38.51 | 1.51% / 31.44% | 1.0 | 2.67 | 2 | 0.0 | 0.0 | 136 | 76% |
+| full | 102 | 100% | 0.040 | 3.74 / 27.82 | 0.49% / 13.38% | 0.1 | 2.67 | 0 | 0.0 | 0.0 | 129 | 76% |
 <!-- /RESULTS:ablation -->
 
 CNN verifier (held-out simulated ROIs):
 
 <!-- RESULTS:cnn -->
-_not yet measured_
+| item | value |
+|---|---|
+| training samples (simulated ROIs) | 60000 (10 % held out) |
+| epochs / seed | 12 / 0 |
+| parameters | 28948 |
+| validation accuracy | 96.53 % |
+| precision / recall | 97.87 % / 97.23 % |
+| false-positive rate | 5.18 % |
+| heatmap localisation error median / P95 | 0.348 / 26.368 px |
+| training time (CPU) | 32.1 min |
 <!-- /RESULTS:cnn -->
 
 ### Honest reading of the numbers

diff --git a/CHANGELOG.md b/CHANGELOG.md
@@ -16,3 +16,7 @@
 - M6: PyQt6 console (camera view, minimap, telemetry, live plots, config dock, perception
   debug, benchmark, evaluator MP4), QThread worker, blind mode.
 - M7: PDF reports, documentation, PyInstaller spec, CI (Ubuntu + Windows).
+- M8: final benchmark (34 scenarios × 5 seeds × 2 acquisition modes × 2 start modes = 680
+  runs) and ablation (7 variants × 34 scenarios × 3 seeds); results auto-inserted into the
+  README and technical report; summary tables and the combined PDF copied to `docs/results/`.
+  PyInstaller one-folder build verified on Linux (CLI run + GUI); the Windows build runs in CI on tags.
